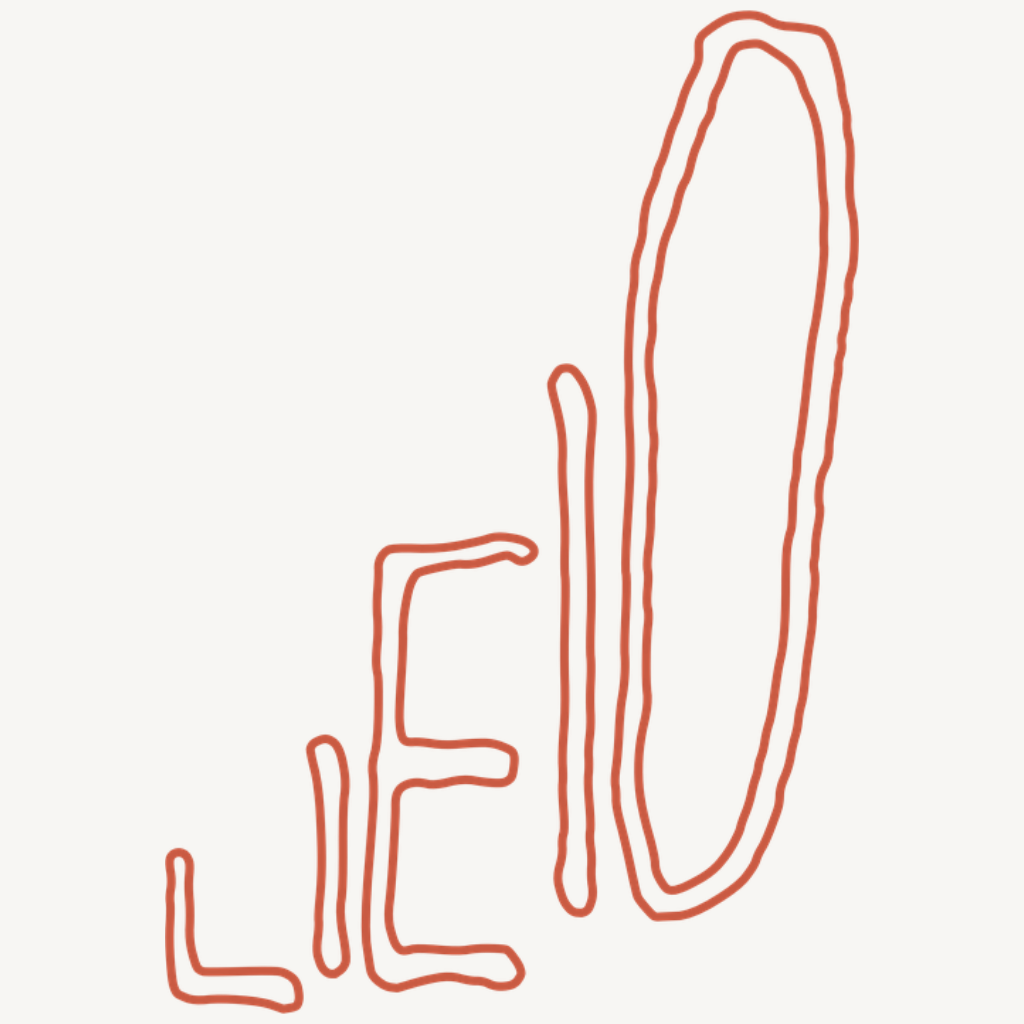
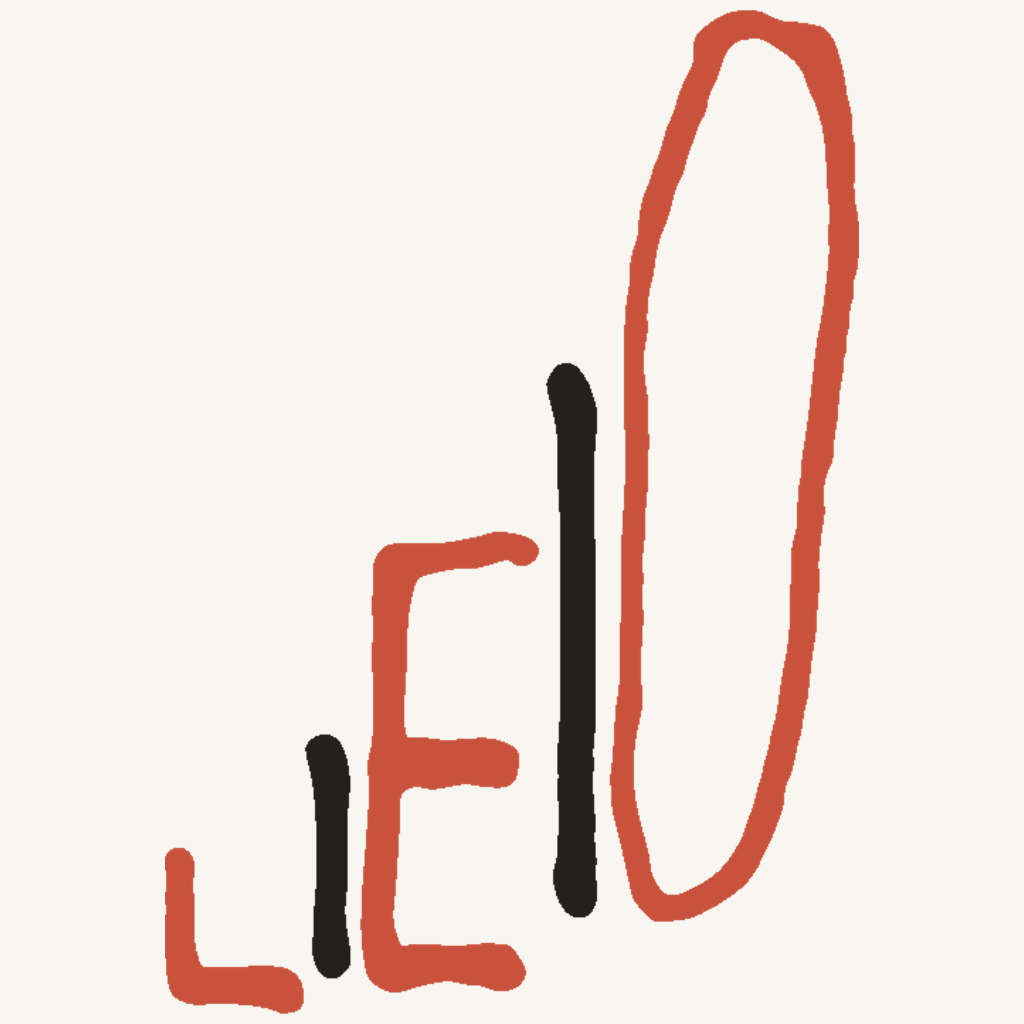
feat: 겉뜨기 코를 꺾쇠 모양으로, 아이콘·테마색을 앱 색에 맞춤
- StitchRow: V → 왼쪽을 향한 꺾쇠 <
- 아이콘: 자음 강조 주황 #C8523C · 모음 글자색 #23211D · 바탕 종이빛 #F8F6F1
- manifest/theme-color도 주황으로

Changed region(s): [[0.1562, 0.0, 0.8438, 1.0]]

diff --git a/src/shared/ui/StitchRow.tsx b/src/shared/ui/StitchRow.tsx
@@ -14,7 +14,7 @@ type Props = {
 };
 
 /**
- * 겉뜨기 V 모양으로 기록을 센다. 기록 하나 = 코 하나.
+ * 겉뜨기 코(왼쪽을 향한 꺾쇠)로 기록을 센다. 기록 하나 = 코 하나.
  * 지나온 코는 진하게, 아직 안 온 코는 흐리게, 보고 있는 코는 강조색.
  * 진행률 막대가 아니라 '쌓임'이다 — 목표치가 없다.
  */
@@ -29,7 +29,7 @@ export function StitchRow({ total, index, unit = 10, perRow = 12 }: Props) {
   return (
     <View style={styles.wrap} accessibilityLabel={`기록 ${total}개`}>
       {rows.map((row) => (
-        <View key={row[0]} style={[styles.row, { gap: unit * 0.22 }]}>
+        <View key={row[0]} style={[styles.row, { gap: unit * 0.3, height: unit }]}>
           {row.map((i) => {
             const current = index === i;
             const done = index === undefined || i <= index;
@@ -42,21 +42,25 @@ export function StitchRow({ total, index, unit = 10, perRow = 12 }: Props) {
   );
 }
 
-/** 겉뜨기 한 코. 두 획이 아래에서 만나는 V */
+/** 겉뜨기 한 코. 왼쪽을 향한 꺾쇠 < 모양 */
 function Stitch({ unit, tint }: { unit: number; tint: string }) {
-  const stroke = Math.max(1.5, unit * 0.2);
-  const leg = { width: stroke, height: unit, backgroundColor: tint, borderRadius: stroke / 2 };
+  const stroke = Math.max(1.5, unit * 0.22);
+  const side = unit * 0.62; // 45도로 돌리면 대각선이 unit 높이가 된다
   return (
-    <View style={{ width: unit * 0.78, height: unit, position: 'relative' }}>
-      <View style={[leg, styles.legLeft, { transform: [{ rotate: '18deg' }] }]} />
-      <View style={[leg, styles.legRight, { transform: [{ rotate: '-18deg' }] }]} />
-    </View>
+    <View
+      style={{
+        width: side,
+        height: side,
+        borderLeftWidth: stroke,
+        borderBottomWidth: stroke,
+        borderColor: tint,
+        transform: [{ rotate: '45deg' }],
+      }}
+    />
   );
 }
 
 const styles = StyleSheet.create({
   wrap: { gap: 3 },
-  row: { flexDirection: 'row', alignItems: 'flex-end' },
-  legLeft: { position: 'absolute', left: 0, bottom: 0 },
-  legRight: { position: 'absolute', right: 0, bottom: 0 },
+  row: { flexDirection: 'row', alignItems: 'center' },
 });

diff --git a/public/index.html b/public/index.html
@@ -10,7 +10,7 @@
 
     <!-- 홈 화면에 추가하면 앱처럼 열린다 -->
     <link rel="manifest" href="/manifest.json" />
-    <meta name="theme-color" content="#1F5F5B" />
+    <meta name="theme-color" content="#C8523C" />
     <meta name="apple-mobile-web-app-capable" content="yes" />
     <meta name="apple-mobile-web-app-status-bar-style" content="black-translucent" />
     <meta name="apple-mobile-web-app-title" content="닛팅" />
